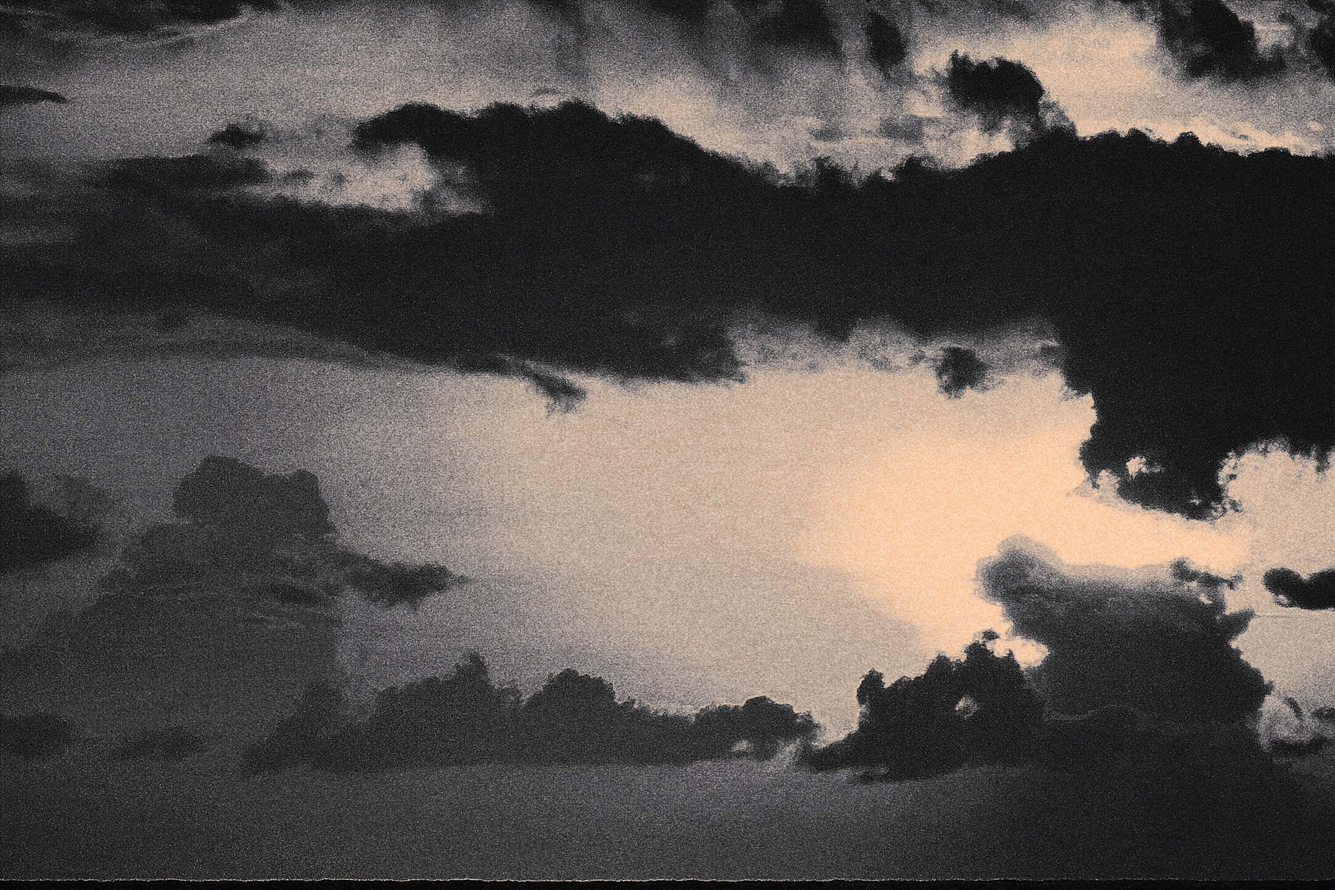
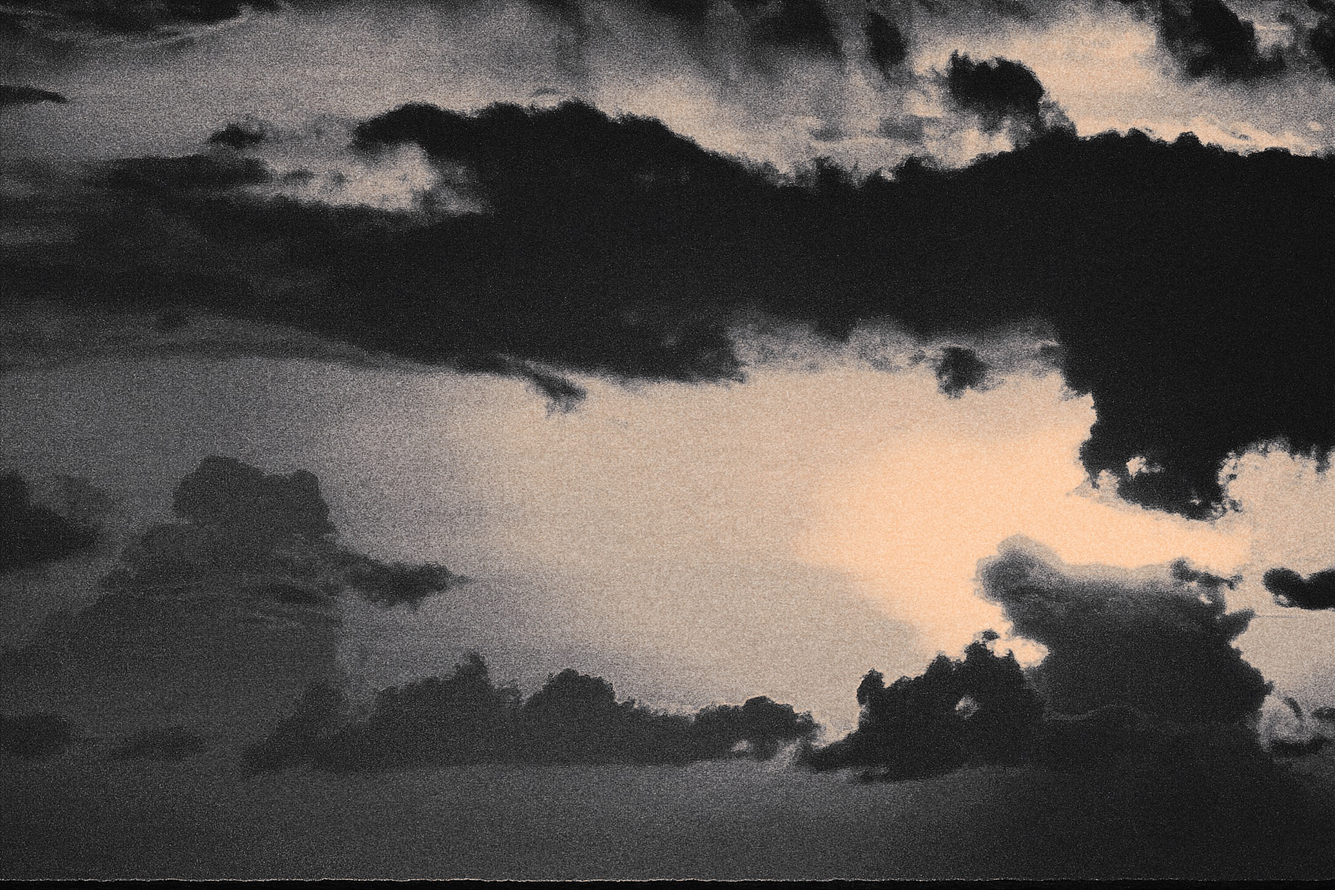
Modify css with asset pipline fix

diff --git a/app/assets/stylesheets/static_pages.css.scss b/app/assets/stylesheets/static_pages.css.scss
@@ -276,7 +276,7 @@ body {
   font-weight: 200;
   line-height: 2.1428571435;
   color: inherit;
-  background-image: url("/assets/vanish.JPG");
+  background-image: asset-data-url("andaman.JPG");
   background-size: cover;
   text-shadow: 1px 1px 1px gray;
 }
